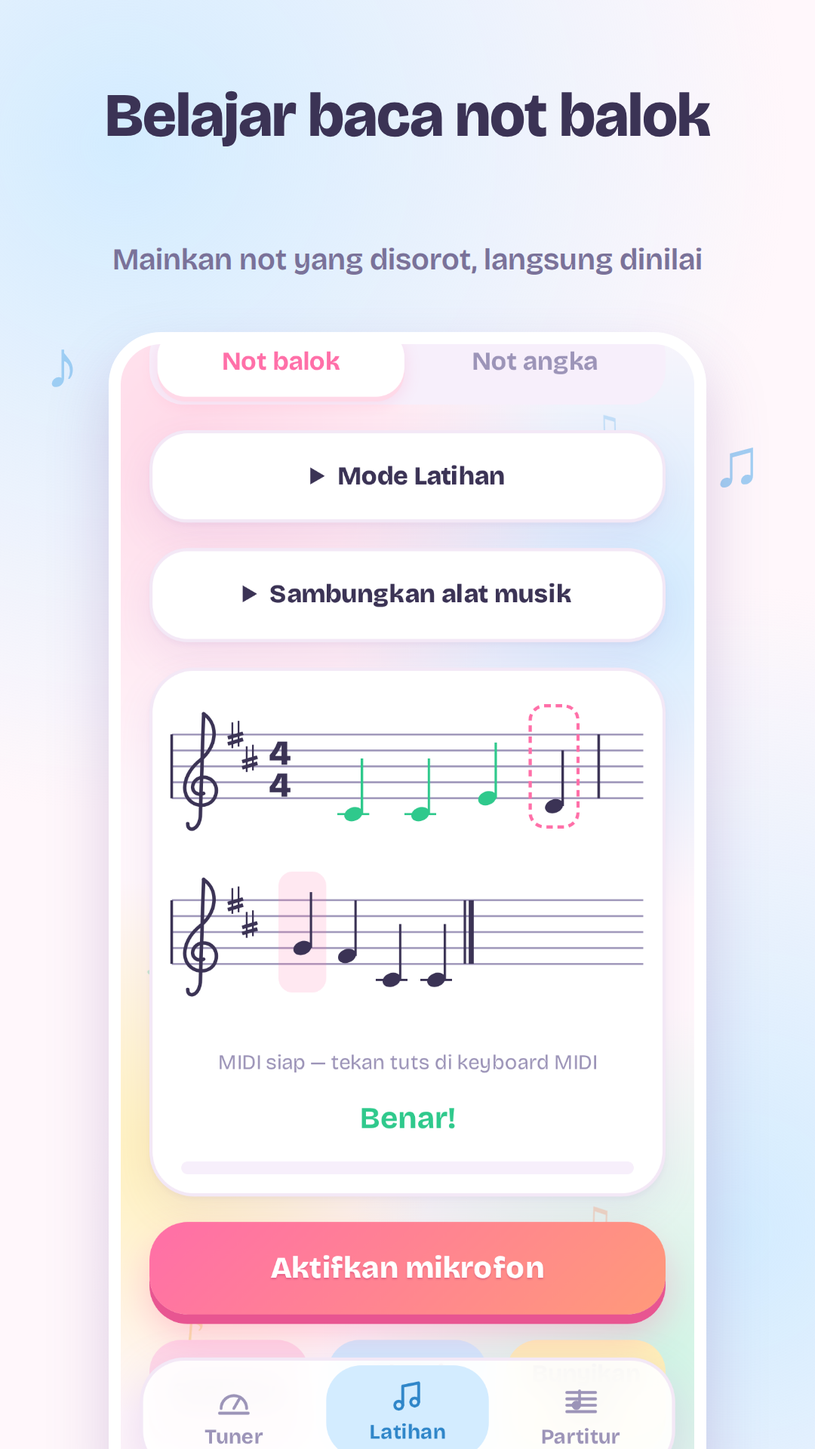
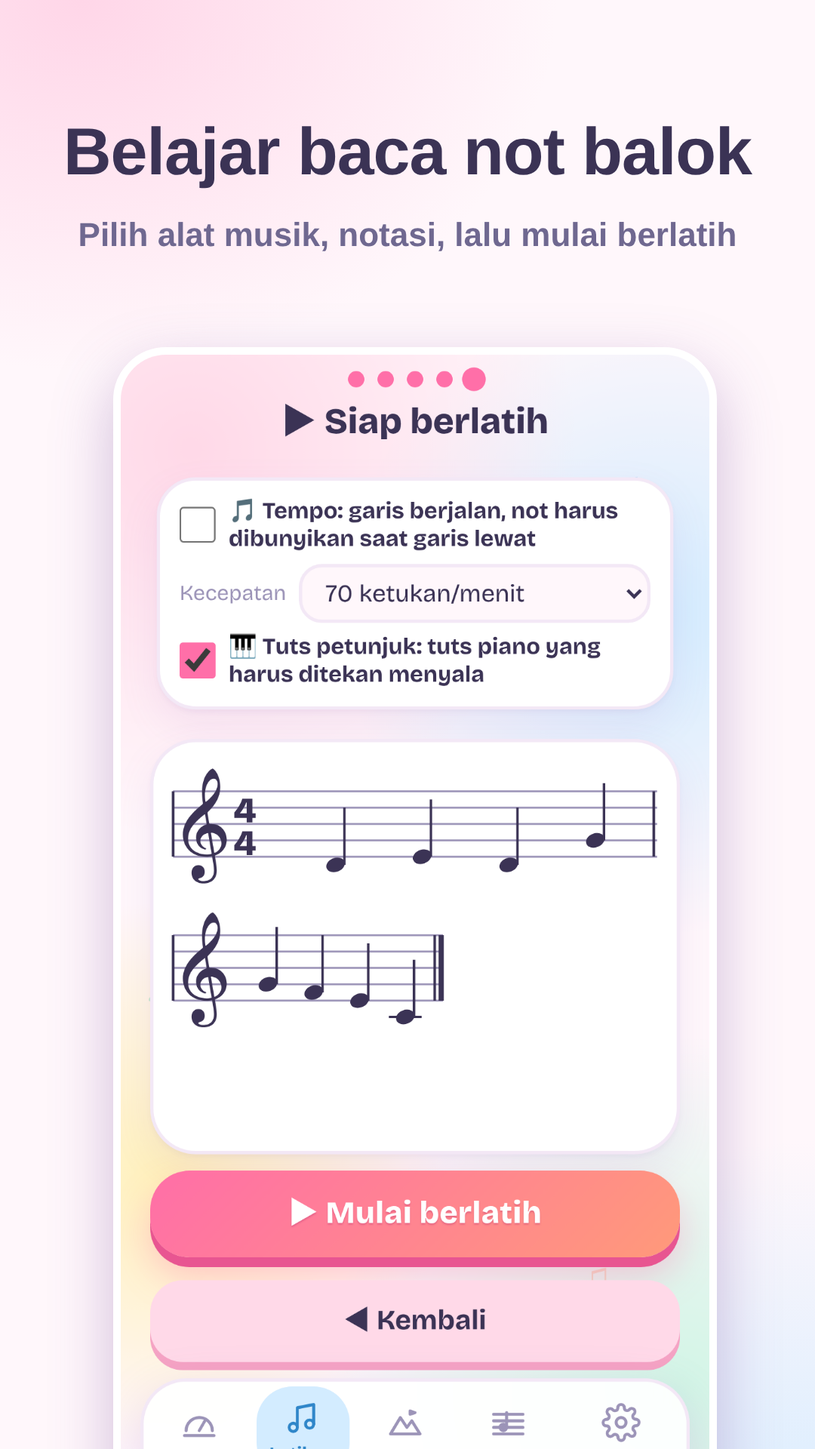
Persiapan Play Store: batas versi gratis, sembunyikan harga, bahan toko baru (#175)
* Tampilan HP: Tuner, Latihan bertahap, Partitur halaman demi halaman (PC tidak berubah)

Claude-Session: https://claude.ai/code/session_01TH6hm59JRc1ZVovFgYkpxG

* HP: tombol Lanjut/Kembali Latihan selalu tampak di atas menu (ukur posisi menu sebenarnya)

Claude-Session: https://claude.ai/code/session_01TH6hm59JRc1ZVovFgYkpxG

* HP: Tuner selalu muat di atas menu, MIDI ON/OFF hanya di mode Rekam; Tuner abaikan nada bayangan (senar A loncat)

Claude-Session: https://claude.ai/code/session_01TH6hm59JRc1ZVovFgYkpxG

* Persiapan Play Store: batas versi gratis (Acak+C, Arcade A, coba 2 birama), sembunyikan harga & tautan Gitar Sakti di aplikasi Play, screenshot & teks toko & privasi baru

Claude-Session: https://claude.ai/code/session_01TH6hm59JRc1ZVovFgYkpxG

---------

diff --git a/index.html b/index.html
@@ -1617,6 +1617,8 @@ body.mob #tab-score.mrec :is(#mscPanel,#mscMore,#stools){display:none !important
 body.mob #tab-score:not(.mrec) #smidiW{display:none !important}
 body.mob #srecCard>#smidiW{display:block;width:100%;margin-top:10px;flex:none}
 body.mob .mNotePanel #sdelnote{flex:1 !important}
+#parcLetter button.lvLock{opacity:.45;filter:grayscale(.6)}
+#parcLetter button.lvLock::after{content:"🔒";position:absolute;right:1px;top:-1px;font-size:10px}
 body.mob #tab-score:not(.mrec) :is(.srecSet:has(#sgrid),#smidiStat){display:none !important}
 body.mob.on-lib #libBack{flex:.8}
 
@@ -2226,8 +2228,8 @@ body.mob #snewOv .instList b{font-size:20px}
   <div class="card" id="planCard">
     <h2 class="sh" id="planTitle">Langganan <span class="planChip" id="planChip">Gratis</span></h2>
     <div class="plancols">
-      <div class="plancol"><b>Gratis</b><ul><li>Tuner</li><li>Metronome</li><li>Latihan mode Acak</li><li>Lagu contoh di Partitur (lihat &amp; putar)</li><li>Coba menulis 4 birama</li></ul></div>
-      <div class="plancol"><b>Premium ⭐</b><ul><li>Semua fitur Gratis</li><li>Arcade, Custom &amp; Partitur saya</li><li>Tulis, edit &amp; simpan partitur</li><li>Impor/ekspor MIDI, akor, gambar</li><li>Simpan di cloud</li></ul></div>
+      <div class="plancol"><b>Gratis</b><ul><li>Tuner</li><li>Metronome</li><li>Latihan Acak (tangga nada C)</li><li>Arcade stage A</li><li>Lagu contoh di Partitur (lihat &amp; putar)</li><li>Coba menulis 2 birama</li></ul></div>
+      <div class="plancol"><b>Premium ⭐</b><ul><li>Semua fitur Gratis</li><li>Arcade huruf B–Z</li><li>Semua tangga nada, Custom &amp; Partitur saya</li><li>Tulis, edit &amp; simpan partitur</li><li>Impor/ekspor MIDI, akor, gambar</li><li>Simpan di cloud</li></ul></div>
     </div>
     <p class="price"><b>Rp45.000 / bulan</b> atau <b>Rp350.000 / tahun</b><br><small>Gratis 1 bulan pertama, bisa dibatalkan kapan saja. Harga final tampil di Google Play saat berlangganan.</small></p>
     <button class="start" id="planBuy" type="button" disabled>Segera tersedia di Google Play</button>
@@ -2288,9 +2290,9 @@ body.mob #snewOv .instList b{font-size:20px}
       <div class="tip">Saat menyetem senar A (atau E rendah), senar E tinggi bisa ikut berdengung. Kalau jarum terasa tidak tenang, tempelkan jari pelan di senar lain supaya diam.</div>
       <p><b>Metronome:</b> tekan tombol <b>Metronome</b> di bagian atas menu Tuner. Atur tempo dengan geseran, tombol −/+, atau <b>Ketuk tempo</b> (ketuk beberapa kali mengikuti irama). Pilih birama (2/4, 3/4, 4/4, 6/8), lalu tekan <b>Mulai</b>. Ketukan pertama bunyinya lebih tinggi.</p>
     </div></details>
-    <details class="helpitem"><summary>Gratis dan Premium</summary><div class="hb">
-      <p><b>Gratis:</b> Tuner, Metronome, Latihan mode Acak, lagu contoh di Partitur (bisa dilihat dan diputar), dan mode <b>Coba menulis</b> (maksimal 4 birama 4/4, tidak bisa disimpan).</p>
-      <p><b>Premium:</b> semua fitur lain, yaitu Arcade, Latihan Custom dan Partitur saya, menulis dan menyimpan partitur, impor/ekspor MIDI, akor, impor gambar, dan simpan di cloud.</p>
+    <details class="helpitem" id="helpPrem"><summary>Gratis dan Premium</summary><div class="hb">
+      <p><b>Gratis:</b> Tuner, Metronome, Latihan mode Acak dengan tangga nada C, Arcade stage A (A1–A9), lagu contoh di Partitur (bisa dilihat dan diputar), dan mode <b>Coba menulis</b> (maksimal 2 birama 4/4, tidak bisa disimpan).</p>
+      <p><b>Premium:</b> semua fitur lain, yaitu Arcade huruf B–Z, semua tangga nada, Latihan Custom dan Partitur saya, menulis dan menyimpan partitur, impor/ekspor MIDI, akor, impor gambar, dan simpan di cloud.</p>
       <p>Lihat harga dan cara berlangganan di bagian <b>Langganan</b> (paling atas halaman Pengaturan ini).</p>
     </div></details>
     <details class="helpitem"><summary>Latihan baca not</summary><div class="hb">
@@ -4528,6 +4530,12 @@ function holdRelease(n){
   renderPractice();
 }
 function advanceArcadeLevel(){
+  /* versi gratis: selesai A9 = tetap di A9, tawarkan Premium (permainan dijeda) */
+  if(pr.arcSub>=9 && !freeLetterOk(pr.arcLetter+1)){
+    pr.arcSub=9; arcSave();
+    setTimeout(function(){ if(pr.playing && !pr.paused) askQuit(); showPaywall('arcadeDone'); },2600);
+    return;
+  }
   pr.arcSub++;
   if(pr.arcSub>9){ pr.arcSub=1; pr.arcLetter=Math.min(pr.arcLetter+1,ARC_LETTERS.length-1); }
   arcSave();
@@ -5224,6 +5232,7 @@ function buildKeySelect(){
     var nm=KEY_NAMES[String(k)], lab;
     if(app.mode==='num') lab='Tangga nada '+nm+' (1 = '+nm+')';
     else lab = k===0 ? 'Tanpa ♯/♭ (C)' : (new Array(Math.abs(k)+1).join(k>0?'♯':'♭'))+'  ('+nm+')';
+    if(!freeKeyOk(k)) lab+=' ⭐';
     h+='<option value="'+k+'">'+lab+'</option>';
   });
   if(sel.innerHTML!==h) sel.innerHTML=h;
@@ -5277,12 +5286,14 @@ function bindPracticeOpts(){
     pr.src=v; syncPracticeOpts(); newRound();
   });
   $('#pkey').addEventListener('change',function(e){
-    pr.key=clamp(parseInt(e.target.value,10)||0,-7,7); store.set('yg.key',String(pr.key));
+    var kv=clamp(parseInt(e.target.value,10)||0,-7,7);
+    if(pr.src!=='score' && !freeKeyOk(kv)){ e.target.value=String(pr.key); showPaywall('tangga'); return; }
+    pr.key=kv; store.set('yg.key',String(pr.key));
     if(pr.src==='score') return;
     if(pr.src==='custom' && pr.score){ pr.score.key=pr.key; pr.score.notes.forEach(function(n){ if(n.m!==null) n.a=spellIn(n.m,pr.key); }); newRound(true); }
     else newRound();
   });
-  $('#parcLetter').addEventListener('click',function(e){ var b=e.target.closest('button[data-l]'); if(!b) return; pr.arcLetter=parseInt(b.getAttribute('data-l'),10); arcSave(); syncPracticeOpts(); renderArcade(); });
+  $('#parcLetter').addEventListener('click',function(e){ var b=e.target.closest('button[data-l]'); if(!b) return; if(!freeLetterOk(parseInt(b.getAttribute('data-l'),10))){ showPaywall('arcade'); return; } pr.arcLetter=parseInt(b.getAttribute('data-l'),10); arcSave(); syncPracticeOpts(); renderArcade(); });
   $('#parcSub').addEventListener('click',function(e){ var b=e.target.closest('button[data-s]'); if(!b) return; pr.arcSub=parseInt(b.getAttribute('data-s'),10); arcSave(); syncPracticeOpts(); renderArcade(); });
   $('#custMeasures').addEventListener('change',function(e){ pr.custMeasures=parseInt(e.target.value,10); store.set('yg.custMeasures',String(pr.custMeasures)); newRound(); });
   $('#custAll').addEventListener('click',function(){ pr.custNotes=[]; for(var m=CUST_LO;m<=CUST_HI;m++) pr.custNotes.push(m); store.set('yg.custNotes',JSON.stringify(pr.custNotes)); syncPracticeOpts(); newRound(); });
@@ -5525,7 +5536,7 @@ function initCloud(){
   if(has) watchAuth().catch(function(){});
   window.addEventListener('online',function(){ syncNow(); });
   document.addEventListener('visibilitychange',function(){ if(!document.hidden&&Date.now()-lastSyncAt>30000) syncNow(); });
-  if(/(^|\.)gitarsakti\.com$/.test(location.hostname)) Array.prototype.forEach.call(document.querySelectorAll('.gsback'),function(a){ a.hidden=false; });
+  if(/(^|\.)gitarsakti\.com$/.test(location.hostname) && appSource()!=='playstore') Array.prototype.forEach.call(document.querySelectorAll('.gsback'),function(a){ a.hidden=false; });
 }
 function dirtyList(synced){
   var out=[];
@@ -5689,6 +5700,11 @@ function bindAcct(){
    - isPremium() nanti diganti pemeriksaan langganan Google Play (Digital Goods API + verifikasi server).
    ===================================================================== */
 var GATING_ON=false;
+/* Batas versi gratis (diputuskan Ferdi, Nov 2026): Tuner & Metronome gratis; Latihan hanya mode Acak dengan tangga nada C;
+   Arcade hanya huruf/stage A (A1-A9); Partitur: lagu contoh dilihat & diputar + "Coba menulis" maks TRIAL_BARS birama. */
+var TRIAL_BARS=2;
+function freeKeyOk(k){ return isPremium() || (k|0)===0; }
+function freeLetterOk(L){ return isPremium() || (L|0)===0; }
 function gatingOn(){ return GATING_ON || store.get('yg.gating','0')==='1'; }
 function isPremium(){ return !gatingOn() || store.get('yg.premTest','0')==='1'; }
 var trialScore=null, lastRealId=null;
@@ -5697,15 +5713,17 @@ function canEditNow(){ return isPremium() || curIsTrial(); }
 function advOn(){ return autoAdv || curIsTrial(); }   /* mode coba selalu maju otomatis (satu not per ketukan, bukan akor) */
 function guardEdit(){
   if(canEditNow()) return true;
-  showScoreAlert('Versi gratis: lagu contoh hanya bisa dilihat dan diputar. Tekan "Coba menulis" untuk mencoba (maks 4 birama), atau berlangganan Premium untuk mengedit.');
+  showScoreAlert('Versi gratis: lagu contoh hanya bisa dilihat dan diputar. Tekan "Coba menulis" untuk mencoba (maks 2 birama), atau berlangganan Premium untuk mengedit.');
   return false;
 }
 var PW={
-  arcade:['Arcade khusus Premium','Main game baca not dengan karakter dan level A sampai Z. Berlangganan Premium untuk membukanya.'],
+  arcade:['Huruf B sampai Z khusus Premium','Stage A (A1–A9) gratis untuk dicoba. Berlangganan Premium untuk membuka 225 level berikutnya, huruf B sampai Z.'],
+  arcadeDone:['Stage A selesai! 🎉','Hebat! Lanjutkan ke huruf B sampai Z (225 level lagi) dengan berlangganan Premium. Kamu tetap bisa mengulang stage A.'],
+  tangga:['Tangga nada lain khusus Premium','Versi gratis berlatih dengan tangga nada C (1 = C). Berlangganan Premium untuk semua tangga nada ♯ dan ♭.'],
   custom:['Latihan Custom khusus Premium','Pilih sendiri nada yang keluar di latihan. Berlangganan Premium untuk membukanya.'],
   score:['Partitur saya khusus Premium','Berlatih dari lagu yang kamu tulis sendiri. Berlangganan Premium untuk membukanya.'],
   simpan:['Menyimpan khusus Premium','Di mode coba, tulisanmu tidak disimpan. Berlangganan Premium untuk menyimpan dan menulis tanpa batas.'],
-  trial4:['Batas mode coba: 4 birama','Berlangganan Premium untuk menulis tanpa batas, menyimpan, dan mengekspor.'],
+  trial4:['Batas mode coba: 2 birama','Berlangganan Premium untuk menulis tanpa batas, menyimpan, dan mengekspor.'],
   impor:['Impor MIDI khusus Premium','Ubah file MIDI jadi partitur. Berlangganan Premium untuk membukanya.'],
   audio:['Impor lagu khusus Premium','Ubah rekaman lagu jadi MIDI dan partitur. Berlangganan Premium untuk membukanya.'],
   word:['Ekspor PDF khusus Premium','Simpan partiturmu sebagai PDF siap cetak (A4/F4). Berlangganan Premium untuk membukanya.'],
@@ -6034,9 +6052,9 @@ function showScoreAlert(msg,ok){
    not-not sesudahnya bergeser dan garis birama dirapikan (reflowBars). */
 var lastIns=null;
 function trialFull(s,item,bb){
-  if(!s.trial) return false;   /* mode coba: maksimal 4 birama */
+  if(!s.trial) return false;   /* mode coba: maksimal TRIAL_BARS birama */
   var tot=0; s.notes.forEach(function(n){ tot+=n.d; });
-  if(tot+item.d>4*bb+1e-6){ showPaywall('trial4'); return true; }
+  if(tot+item.d>TRIAL_BARS*bb+1e-6){ showPaywall('trial4'); return true; }
   return false;
 }
 function fillOrInsert(item,before){
@@ -6279,7 +6297,7 @@ function clipPaste(){
   if(!clip || !clip.length){ showScoreAlert('Belum ada not yang disalin. Pilih not lalu tekan Salin (Ctrl+C).'); return; }
   var s=edScore(), N=s.notes, bb=s.ts[0]*4/s.ts[1], items=cloneNotes(clip), L=0, k, tot=0;
   items.forEach(function(n){ L+=n.d; });
-  if(s.trial){ N.forEach(function(n){ tot+=n.d; }); if(tot+L>4*bb+1e-6){ showPaywall('trial4'); return; } }
+  if(s.trial){ N.forEach(function(n){ tot+=n.d; }); if(tot+L>TRIAL_BARS*bb+1e-6){ showPaywall('trial4'); return; } }
   var r=rangeOf(), ins=advOn(), i0;
   /* NYALA + pilihan: disisipkan di BELAKANG (kanan) pilihan; MATI: menimpa mulai pilihan */
   if(r){ i0 = ins ? r[1]+1 : r[0]; if(ins) while(i0<N.length && tieFrom(N,i0)) i0++; }
@@ -8153,7 +8171,7 @@ window.addEventListener('popstate',function(e){
 /* ===== Menu Arcade: pilih karakter -> alat musik -> jenis not -> PLAY ===== */
 var arc={step:1,sub:null};
 function renderArcade(){
-  var lock=!isPremium(); $('#arcLock').hidden=!lock; $('#arcDots').hidden=lock;
+  var lock=false; $('#arcLock').hidden=true; $('#arcDots').hidden=false;   /* versi gratis: Arcade terbuka, hanya huruf A (freeLetterOk) */
   [1,2,3,4,5].forEach(function(n){ $('#arcS'+n).hidden = lock || !!arc.sub || arc.step!==n; });
   $('#pNewPl').hidden = lock || arc.sub!=='new';
   $('#agRenPg').hidden = lock || arc.sub!=='ren';
@@ -8176,7 +8194,7 @@ function renderLvPick(){
   function hue(l){ return (l*47+130)%360; }
   lw.innerHTML=ARC_LETTERS.map(function(ch,l){
     var n=0; for(var k=l*9;k<l*9+9;k++) if(res[k]!=null) n++;
-    return '<button type="button" role="radio" data-l="'+l+'" style="--h:'+hue(l)+'" aria-checked="'+(l===L)+'" aria-label="Level '+ch+(n?', '+n+' dari 9 stage dimainkan':'')+'">'+ch+
+    return '<button type="button" role="radio" data-l="'+l+'" style="--h:'+hue(l)+'" aria-checked="'+(l===L)+'" aria-label="Level '+ch+(n?', '+n+' dari 9 stage dimainkan':'')+(freeLetterOk(l)?'':', Premium')+'"'+(freeLetterOk(l)?'':' class="lvLock"')+'>'+ch+
       (n?'<i><b style="width:'+Math.round(n/9*100)+'%"></b></i>':'')+(bon[l]?'<span class="cr">👑</span>':'')+'</button>';
   }).join('');
   var sb=''; for(var s=1;s<=9;s++){
@@ -8232,8 +8250,9 @@ function arcLeave(){
 }
 function arcGo(n){ arc.step=n; renderArcade(); }
 function startArcade(){
-  if(!isPremium()){ showPaywall('arcade'); return; }
-  var a=activePlayer(); pr.arcLetter=a.letter; pr.arcSub=a.sub; arcSave();
+  var a=activePlayer();
+  if(!freeLetterOk(a.letter)){ showPaywall('arcade'); arcGo(5); return; }
+  pr.arcLetter=a.letter; pr.arcSub=a.sub; arcSave();
   pr.prevSrc = pr.src==='arcade' ? 'random' : pr.src; pr.src='arcade';
   syncPracticeOpts(); newRound(); startPractice(); refreshTop(); arcMaybeIntro();
 }
@@ -8278,6 +8297,12 @@ function applyEntitlements(){
     if(o.value==='score') o.textContent='Partitur saya'+(prem?'':' ⭐');
   });
   if(!prem && (pr.src==='custom'||pr.src==='score')){ pr.src='random'; $('#psrc').value='random'; }
+  if(!prem && pr.key!==0){ pr.key=0; }
+  buildKeySelect();
+  try{ renderLvPick(); }catch(e){}
+  /* Kartu Langganan (harga) & bantuan Gratis/Premium hanya tampil saat pembatasan aktif. Selama pembayaran Google Play
+     belum dipasang (GATING_ON=false) semua fitur terbuka dan TIDAK ada harga yang ditampilkan (kebijakan Play). */
+  $('#planCard').hidden=!gatingOn(); var ph=$('#helpPrem'); if(ph) ph.hidden=!gatingOn();
   /* Partitur */
   var fb=$('#sfree');
   if(prem){ fb.hidden=true; }
@@ -8287,7 +8312,7 @@ function applyEntitlements(){
       +'<div class="row"><button class="sound" type="button" data-act="try">✏ Coba menulis</button><button class="start" type="button" data-act="prem" style="flex:1.2;padding:9px 8px;font-size:14px">⭐ Lihat Premium</button></div>';
   } else {
     fb.hidden=false;
-    fb.innerHTML='<p><b>Mode coba:</b> maksimal <b>4 birama</b>, sukat 4/4, tidak bisa disimpan atau diekspor. Menutup aplikasi menghapusnya.</p>'
+    fb.innerHTML='<p><b>Mode coba:</b> maksimal <b>'+TRIAL_BARS+' birama</b>, sukat 4/4, tidak bisa disimpan atau diekspor. Menutup aplikasi menghapusnya.</p>'
       +'<div class="row"><button class="sound" type="button" data-act="reset">Kosongkan</button><button class="sound" type="button" data-act="back">Kembali ke lagu</button></div>'
       +'<div class="row" style="margin-top:8px"><button class="start" type="button" data-act="prem" style="padding:9px 8px;font-size:14px">⭐ Lihat Premium untuk menyimpan</button></div>';
   }
@@ -8581,7 +8606,11 @@ function mobLatRender(){
   var t4={random:'⚙ Atur soal acak',custom:'🎯 Pilih nada sendiri',score:'📄 Pilih partitur'}[pr.src]||'⚙ Atur latihan';
   $('#mlatT').textContent=['','🎹 Pilih alat musik','🎼 Pilih jenis notasi','🎯 Pilih mode latihan',t4,'▶ Siap berlatih'][mob.lst];
   $('#mlatDots').innerHTML=[1,2,3,4,5].map(function(n){ return '<i class="'+(n<=mob.lst?'on':'')+(n===mob.lst?' cur':'')+'"></i>'; }).join('');
-  $$('#mlatSrc [data-msrc]').forEach(function(b){ b.setAttribute('aria-pressed',b.getAttribute('data-msrc')===pr.src?'true':'false'); });
+  $$('#mlatSrc [data-msrc]').forEach(function(b){
+    var v=b.getAttribute('data-msrc'), t=b.querySelector('b');
+    b.setAttribute('aria-pressed',v===pr.src?'true':'false');
+    if(!t._t) t._t=t.textContent; t.textContent=t._t+(v==='random'||isPremium()?'':' ⭐');
+  });
   var ss=$('#mlatScore'), h=scores.map(function(x){ return '<option value="'+x.id+'"></option>'; }).join('');
   if(ss._h!==h){ ss._h=h; ss.innerHTML=h; scores.forEach(function(x,i){ ss.options[i].textContent=x.title||'Tanpa judul'; }); }
   if(!curIsTrial()) ss.value=curId;

diff --git a/privacy.html b/privacy.html
@@ -34,7 +34,7 @@ a{color:var(--brass)}
   <img src="icon-192.png" alt="">
   <div>
     <h1>Kebijakan Privasi FerTune</h1>
-    <div class="muted">Berlaku sejak 2 Oktober 2026</div>
+    <div class="muted">Berlaku sejak 4 November 2026</div>
   </div>
 </header>
 
@@ -42,14 +42,14 @@ a{color:var(--brass)}
   <p class="sum">Singkatnya: tanpa akun, semua data FerTune hanya ada di perangkatmu. Jika kamu memilih masuk dengan akun Gitar Sakti, email dan partitur milikmu disimpan di server Gitar Sakti agar tidak hilang saat ganti HP. Suara mikrofon tidak pernah direkam atau dikirim.</p>
 
   <h2>Tentang aplikasi ini</h2>
-  <p>FerTune adalah aplikasi untuk belajar musik: tuner gitar, latihan membaca not balok dan not angka, serta membuat partitur. FerTune ditujukan untuk pengguna berusia 13 tahun ke atas. Memakai FerTune tidak mewajibkan akun. Akun bersifat opsional dan sama dengan akun di gitarsakti.com. FerTune tidak menampilkan iklan dan tidak memiliki pembelian di dalam aplikasi.</p>
+  <p>FerTune adalah aplikasi untuk belajar musik: tuner gitar, latihan membaca not balok dan not angka, serta membuat partitur. FerTune ditujukan untuk pengguna berusia 13 tahun ke atas. Memakai FerTune tidak mewajibkan akun. Akun bersifat opsional dan sama dengan akun di gitarsakti.com. FerTune tidak menampilkan iklan. Saat ini belum ada pembelian di dalam aplikasi; bila nanti tersedia langganan Premium, pembayarannya diproses oleh Google Play dan FerTune tidak pernah menerima data kartu atau rekeningmu.</p>
 
   <h2>Mikrofon</h2>
   <p>Mikrofon dipakai hanya saat kamu menekan tombol <b>"Aktifkan mikrofon"</b>, untuk mengenali nada yang kamu mainkan (tuner dan latihan membaca not).</p>
   <ul>
     <li>Suara dianalisis langsung di perangkat, detik itu juga.</li>
     <li>Suara <b>tidak pernah direkam, tidak disimpan, dan tidak dikirim</b> ke mana pun.</li>
-    <li>Mikrofon berhenti saat kamu menekan "Matikan mikrofon" atau pindah ke menu Partitur.</li>
+    <li>Mikrofon berhenti saat kamu menekan "Matikan mikrofon" atau pindah ke menu lain.</li>
   </ul>
 
   <h2>Keyboard / alat musik MIDI</h2>
@@ -64,12 +64,12 @@ a{color:var(--brass)}
   <p>Selama kamu tidak masuk dengan akun, data ini tidak pernah dikirim ke server. Kamu bisa menghapusnya kapan saja dengan menghapus partitur di aplikasi, menghapus data aplikasi di pengaturan HP, atau mencopot pemasangan (uninstall) FerTune.</p>
 
   <h2>Akun dan penyimpanan cloud (opsional)</h2>
-  <p>Jika kamu menekan <b>Masuk</b> atau <b>Daftar</b> di menu Partitur, FerTune memakai akun Gitar Sakti (gitarsakti.com):</p>
+  <p>Jika kamu menekan <b>Masuk</b> atau <b>Daftar</b> di menu Pengaturan, FerTune memakai akun Gitar Sakti (gitarsakti.com):</p>
   <ul>
     <li><b>Yang dikirim dan disimpan:</b> alamat email, kata sandi (disimpan terenkripsi oleh penyedia autentikasi, tidak terbaca oleh kami), nama jika kamu mengisinya, dan partitur yang kamu buat atau impor beserta judul dan pengaturannya.</li>
     <li><b>Tujuan:</b> masuk ke akun dan menyimpan partitur supaya tersedia di semua perangkatmu.</li>
     <li><b>Tempat penyimpanan:</b> server Supabase yang dikelola Gitar Sakti. Hanya akunmu yang dapat membaca dan mengubah partituranmu; data ini tidak dijual dan tidak dibagikan ke pihak lain.</li>
-    <li><b>Menghapus data:</b> menghapus partitur di aplikasi juga menandainya terhapus di cloud. Untuk menghapus akun beserta seluruh partitur di cloud, tekan <b>Hapus akun</b> di kartu akun menu Partitur, atau buka <a href="hapus-akun.html">halaman hapus akun</a> (bisa tanpa memasang aplikasi). Karena akunnya sama dengan akun Gitar Sakti: bila kamu pernah membeli kelas, akun tidak dihapus (riwayat pembelian wajib disimpan) dan hanya data FerTune di cloud yang dihapus. Kamu juga bisa meminta lewat email di bagian Kontak.</li>
+    <li><b>Menghapus data:</b> menghapus partitur di aplikasi juga menandainya terhapus di cloud. Untuk menghapus akun beserta seluruh partitur di cloud, tekan <b>Hapus akun</b> di kartu akun menu Pengaturan, atau buka <a href="hapus-akun.html">halaman hapus akun</a> (bisa tanpa memasang aplikasi). Karena akunnya sama dengan akun Gitar Sakti: bila kamu pernah membeli kelas, akun tidak dihapus (riwayat pembelian wajib disimpan) dan hanya data FerTune di cloud yang dihapus. Kamu juga bisa meminta lewat email di bagian Kontak.</li>
     <li>Kamu bisa keluar kapan saja; partitur di perangkat tetap ada.</li>
     <li><b>Umpan balik saat hapus akun (opsional):</b> kalau kamu mengisi alasan menghapus akun, alasan dan catatanmu disimpan <b>tanpa nama, tanpa email, dan tanpa tautan ke akunmu</b>, hanya untuk memperbaiki FerTune. Boleh dikosongkan.</li>
   </ul>
@@ -86,7 +86,7 @@ a{color:var(--brass)}
     <li>Satu-satunya layanan di luar perangkat adalah server akun Gitar Sakti (Supabase) di atas, dan hanya dipakai jika kamu masuk.</li>
     <li>Tidak ada fitur obrolan, berbagi, atau tautan ke media sosial.</li>
   </ul>
-  <p>Seperti semua aplikasi yang diunduh dari internet, file aplikasi FerTune diambil dari server hosting (GitHub Pages) saat pertama kali dipasang dan saat ada pembaruan. Server hosting dapat mencatat informasi teknis standar (seperti alamat IP) untuk keperluan keamanan dan operasional mereka; FerTune sendiri tidak menerima atau menggunakan informasi tersebut. Jika dibuka lewat gitarsakti.com, hosting dilakukan oleh Vercel dengan catatan teknis serupa.</p>
+  <p>Seperti semua aplikasi yang diunduh dari internet, file aplikasi FerTune diambil dari server hosting (GitHub Pages) saat pertama kali dipasang dan saat ada pembaruan. Server hosting dapat mencatat informasi teknis standar (seperti alamat IP) untuk keperluan keamanan dan operasional mereka; FerTune sendiri tidak menerima atau menggunakan informasi tersebut.</p>
 
   <h2>Anak-anak</h2>
   <p>FerTune tidak ditujukan untuk anak di bawah usia 13 tahun dan kami tidak dengan sengaja mengumpulkan data pribadi dari mereka. FerTune hanya mengumpulkan email dan partitur dari pengguna yang memilih membuat akun. Jika kami mengetahui ada data anak di bawah 13 tahun yang terkumpul, data itu akan dihapus.</p>

diff --git a/sw.js b/sw.js
@@ -1,6 +1,6 @@
 // Yuner service worker — supaya bisa jalan offline.
 // Setiap kali kamu mengubah index.html, naikkan angka versi ini (v1 -> v2, dst).
-const CACHE = 'fertune-v183';
+const CACHE = 'fertune-v184';
 const PRECACHE = [
   './',
   './index.html',

diff --git a/CLAUDE.md b/CLAUDE.md
@@ -73,6 +73,8 @@ Semua logika JS ada langsung di dalam `index.html` (di dalam satu `<script>` IIF
 ## Gratis vs Premium & Metronome (lihat `RENCANA-PREMIUM.md` untuk rencana lengkap)
 - **Metronome**: bagian dari menu Tuner (tombol "Tuner | Metronome" di header, `setTunerMode`). BPM 30-240, birama 2/4 3/4 4/4 6/8, ketuk tempo, jadwal bunyi presisi lewat jam `AudioContext` (`metSched`, lookahead 120 ms). Berhenti saat pindah menu / halaman tersembunyi. Gratis. **Naik otomatis** (latihan kecepatan, diminta Ferdi Okt 2026; kartu `#metAuto`, centang `#maOn`): Tambah `#maStep` +1/2/3/4/5/10 bpm, Setiap `#maEvery` 10/20/30 dtk/1/2 menit (`MA_EVERY`), Sampai `#maTo` 30–240 (langkah 5; target lebih pelan = turun). Disimpan `yg.metAuto` (`maLoad`/`maSave`), objek `met.auto`. `metSched` menaikkan `met.bpm` di ketuk 1 birama pertama setelah `met.autoNext` (jam AudioContext), angka BPM berdenyut (`.bump`); status + bilah kemajuan `#maStat` diperbarui `maRender` (tiap 250 ms saat jalan): "Naik +5 bpm dalam 7 dtk · target 140" / "🎯 Target tercapai!". Berhenti → tempo kembali ke tempo awal (`met.autoFrom`) dan "Terakhir sampai X bpm". Supaya muat 360x640: Mulai + Ketuk tempo sebaris (`.metGoRow`), angka BPM diperkecil saat `.met.autoOn`. Kotak pilihan `.maRow select` membulat (radius 14, garis & bayangan `--pLilac`, latar `--panel`; diminta Ferdi: jangan kotak lancip). Uji `met.js`/`metfit.js`.
 - **Hak akses**: `isPremium()`, `gatingOn()`, `GATING_ON` (sekarang `false` = semua terbuka). `applyEntitlements()` menyesuaikan tampilan; `guardEdit()`/`showPaywall(kunci)` dipakai titik penguncian (Latihan Custom & Partitur saya, Arcade, edit/simpan/impor/ekspor/akor/gambar di Partitur, cloud). Lagu contoh: `s0` (Twinkle), `b-mary` (Mary Had a Little Lamb, ditambahkan sekali lewat `yg.seedMary`) dan `b-kj432` (KJ 432 "Jika Padaku Ditanyakan" 1b, Do = F, vokal, `kj432()`, ditambahkan sekali lewat `yg.seedKj432`; dibaca Claude dari gambar not angka kiriman Ferdi sebagai uji coba sebelum memutuskan fitur baca-gambar otomatis berbayar; birama gantung diawali rehat 2 ketuk) dan `b-canon` (Canon in D, Pachelbel arr. lemontart, piano 2 tangan D mayor, `canonD()`, `yg.seedCanon`; baru birama 1–20 = halaman 1 dari 6 halaman PDF kiriman Ferdi, dibaca Claude; sisa halaman berisi lari 1/16–1/32 — FerTune maks 1/16). `b-cicak` ("Cicak-Cicak di Dinding", A.T. Mahmud, Do = C, 2/4, Andante, vokal + lirik, `cicak()`, `yg.seedCicak`; dibaca Claude dari FOTO not angka kiriman Ferdi; akor iringan C/G/F & staccato belum dimasukkan). **Mode coba** (`trialScore`, id `trial`): hanya di memori, maks 4 birama 4/4, tanpa simpan/ekspor/akor; saat Premium aktif otomatis disimpan (`promoteTrial`).
+- **Batas versi gratis (diputuskan Ferdi, Nov 2026)**: Tuner & Metronome gratis; Latihan hanya **Acak** + tangga nada **C** (`freeKeyOk`, pilihan lain ⭐ → paywall `tangga`; `applyEntitlements` mengembalikan `pr.key` ke 0); Arcade hanya **huruf A** (`freeLetterOk`; huruf B–Z bergembok `.lvLock` di pemilih level → paywall `arcade`; selesai A9 → tetap A9, permainan dijeda + paywall `arcadeDone`; layar kunci `#arcLock` tidak dipakai lagi); Partitur "Coba menulis" maks **`TRIAL_BARS`=2** birama (dulu 4). Kartu **Langganan** (harga) & bantuan "Gratis dan Premium" (`#helpPrem`) DISEMBUNYIKAN selama `gatingOn()` false — kebijakan Play: jangan tampilkan harga/langganan sebelum Play Billing ada. Tombol `.gsback` "← Gitar Sakti" tidak tampil bila `appSource()==='playstore'` (kebijakan pembayaran Play: jangan arahkan ke pembelian kelas di luar Google Play).
+- **Bahan Play Store diperbarui Nov 2026**: screenshot `playstore/raw` (360×720 @3x) & `playstore/screenshot` (berbingkai 1080×1920) dibuat ulang dari tampilan HP baru: 1-tuner, 2-latihan-balok, 3-latihan-angka, 4-partitur, 5-metronome, 6-partitur-saya (lagu contoh di screenshot hanya Twinkle/Mary — bebas hak cipta). Teks toko & kebijakan privasi diperbarui (akun di menu Pengaturan, belum ada pembelian; bila ada nanti lewat Google Play). Panduan PWABuilder: orientasi **Default/Any** (bukan Portrait). Belum diputuskan Ferdi: lagu contoh berhak cipta (Cicak-Cicak A.T. Mahmud, KJ 432, aransemen Canon lemontart) untuk versi Play Store.
 - Uji di HP: `?gating=1` (simulasi gratis) + Pengaturan > Langganan > ketuk judul 7x > "Mode uji". SEBELUM RILIS BERBAYAR: set `GATING_ON=true`, ganti `isPremium()` dengan verifikasi Play Billing, hapus "Mode uji".
 - Tuner harus tetap muat satu layar di 360x640: tombol Tuner|Metronome ada DI DALAM header (tidak menambah tinggi).
 

diff --git a/playstore/deskripsi-toko.md b/playstore/deskripsi-toko.md
@@ -12,36 +12,41 @@ FerTune: Tuner & Belajar Not
 ## Deskripsi singkat (maks. 80 karakter)
 
 ```
-Belajar musik jadi seru! Tuner gitar, latihan baca not, partitur & MIDI.
+Tuner gitar, metronom, latihan baca not, game Arcade, partitur & MIDI.
 ```
-(72 karakter)
+(70 karakter)
 
 ## Deskripsi lengkap (maks. 4000 karakter)
 
 ```
 FerTune membuat belajar musik jadi seru untuk pemula dan siapa saja yang ingin lancar membaca not! 🎵
 
-Setem gitar, latihan membaca not balok dan not angka, tulis lagu sendiri, lalu mainkan dengan gitar, piano, atau keyboard MIDI. FerTune mendengarkan permainanmu dan langsung memberi tahu apakah nadanya sudah benar.
+Setem gitar, berlatih dengan metronom, latihan membaca not balok dan not angka, tulis lagu sendiri, lalu mainkan dengan gitar, piano, atau keyboard MIDI. FerTune mendengarkan permainanmu dan langsung memberi tahu apakah nadanya sudah benar.
 
-🎸 TUNER GITAR
+🎸 TUNER GITAR & METRONOM
 • Jarum dan warna menunjukkan apakah senar terlalu rendah, terlalu tinggi, atau sudah pas
 • 7 pilihan tuning: Standar, Drop D, turun ½ nada, turun 1 nada, DADGAD, Open G, Open D
-• Bunyikan nada acuan untuk setiap senar
-• Atur nada acuan A4 dari 430 sampai 450 Hz
+• Bunyikan nada acuan untuk setiap senar, atur nada acuan A4 dari 430 sampai 450 Hz
+• Metronom 30–240 bpm, birama 2/4 3/4 4/4 6/8, ketuk tempo, dan mode naik otomatis untuk latihan kecepatan
 
 🎼 LATIHAN BACA NOT
 • Not balok (kunci G dan kunci F) atau not angka
-• Pilih tangga nada: C, G, D, A, E… atau F, B♭, E♭… (♯ ♯♯ ♯♯♯ / ♭ ♭♭ ♭♭♭, atau 1 = G, 1 = A, dst.)
-• Mode Arcade: 234 level dari A sampai Z, makin lama makin menantang
+• Pilih tangga nada: C, G, D, A, E… atau F, B♭, E♭…
+• Mode Tempo: garis berjalan, mainkan not tepat saat garis lewat
+• Tuts petunjuk: tuts piano yang harus ditekan menyala
 • Mode Custom: pilih sendiri nada yang ingin dilatih
 • Untuk piano maupun gitar
-• Jawaban benar disambut hujan confetti! 🎉
+
+🎮 ARCADE
+• 234 level dari A sampai Z, materi baru diperkenalkan dengan animasi
+• Pilih karakter, daki gunung level demi level, kumpulkan skor dan bonus PERFECT
 
 ✏ PARTITUR
-• Tulis lagu sendiri dengan tuts piano warna-warni
-• Putar lagumu untuk mendengarnya
-• Latih lagu yang kamu tulis
-• Impor dan ekspor file MIDI (.mid)
+• Tulis lagu sendiri dengan tuts piano warna-warni: vokal (dengan lirik), gitar, atau piano 2 tangan
+• Akor, dinamika, garis birama, nama bagian lagu (Intro, Reff…)
+• Rekam langsung dari keyboard MIDI, jadi partitur otomatis
+• Putar lagumu, lalu latih lagu yang kamu tulis
+• Impor MIDI, MusicXML, atau rekaman lagu; ekspor PDF, JPG, PNG, dan MIDI
 
 🎹 SAMBUNGKAN ALAT MUSIK
 • Colok keyboard MIDI lewat kabel USB/OTG: tanpa delay, bisa membaca sampai 10 nada sekaligus, dan menampilkan nama akor
@@ -49,8 +54,8 @@ Setem gitar, latihan membaca not balok dan not angka, tulis lagu sendiri, lalu m
 
 🔒 PRIVASI TERJAGA
 • Tanpa iklan
-• Bisa dipakai tanpa akun; akun Gitar Sakti opsional untuk menyimpan partitur di cloud. Tanpa pembelian dalam aplikasi
-• Tidak mengumpulkan data pribadi. Suara dari mikrofon hanya dianalisis di perangkat, tidak pernah direkam atau dikirim
+• Bisa dipakai tanpa akun; akun Gitar Sakti opsional untuk menyimpan partitur di cloud (hanya email dan partitur yang disimpan)
+• Suara dari mikrofon hanya dianalisis di perangkat, tidak pernah direkam atau dikirim
 • Bisa dipakai tanpa internet
 
 Selamat bermain musik! 🎶
@@ -74,5 +79,5 @@ Selamat bermain musik! 🎶
 |---|---|---|
 | Ikon aplikasi | `ikon-playstore-512.png` | 512 × 512 |
 | Gambar fitur (banner) | `feature-graphic-1024x500.png` | 1024 × 500 |
-| Screenshot HP (6 buah) | `screenshot/1-tuner.png` … `6-midi.png` | 1080 × 1920 |
+| Screenshot HP (6 buah) | `screenshot/1-tuner.png` … `6-partitur-saya.png` (dibuat ulang Nov 2026 dari tampilan HP baru) | 1080 × 1920 |
 | Screenshot polos (cadangan) | `raw/*.png` | 1080 × 2160 |

diff --git a/playstore/PANDUAN-PLAYSTORE.md b/playstore/PANDUAN-PLAYSTORE.md
@@ -55,7 +55,7 @@ Alamat lama `gitarsakti.com/fertune/` dialihkan ke sini.
    | Theme color / Background color | `#FFF7FB` |
    | Status bar / Nav bar color | `#FFF7FB` |
    | Display mode | Standalone |
-   | Orientation | Portrait |
+   | Orientation | **Default / Any** ⚠ JANGAN "Portrait": layar berlatih & Arcade harus bisa mendatar |
    | Signing key | **Create new** (isi nama & organisasi) |
 
 4. Tekan **Download**. Kamu mendapat file ZIP berisi:
@@ -70,6 +70,8 @@ Alamat lama `gitarsakti.com/fertune/` dialihkan ke sini.
 
 1. **https://play.google.com/console** → **Buat aplikasi**.
 2. Nama: `FerTune: Tuner & Belajar Not`, bahasa default: **Indonesia**, jenis: **Aplikasi**, **Gratis**.
+   (Gratis + langganan Premium di dalam aplikasi nanti. Aplikasi gratis BOLEH menambah pembelian dalam aplikasi kapan saja;
+   yang tidak bisa hanyalah mengubah aplikasi gratis menjadi aplikasi berbayar di muka.)
 3. Buka **Rilis → Pengujian → Pengujian tertutup** (atau **Pengujian internal** untuk mencoba sendiri dulu),
    buat rilis, upload file `.aab` dari langkah 3.
 4. Saat ditanya **Penandatanganan aplikasi oleh Play**, pilih **gunakan** (disarankan).
@@ -115,7 +117,7 @@ Tanpa langkah ini aplikasi tetap jalan, tapi di bagian atas akan terlihat **bari
 | Audio mikrofon | Diproses di perangkat, tidak dikumpulkan/dikirim → tidak dicantumkan sebagai data terkumpul |
 
 > ✅ **Hapus akun sudah ada.** Google Play meminta jalur hapus akun di dalam aplikasi *dan* tautan web. Keduanya tersedia:
-> tombol **Hapus akun** di kartu akun menu Partitur, dan halaman web `https://fertune.gitarsakti.com/hapus-akun.html`.
+> tombol **Hapus akun** di kartu akun menu Pengaturan, dan halaman web `https://fertune.gitarsakti.com/hapus-akun.html`.
 > Isi tautan web itu di Play Console → Konten aplikasi → Keamanan data → *Hapus akun*.
 > Aturannya: akun yang punya pesanan tidak dihapus (riwayat pembelian wajib disimpan), hanya data FerTune di cloud;
 > akun tanpa pesanan dihapus seluruhnya. Sebutkan ini di formulir Play Console bila ditanya data yang dipertahankan.
@@ -132,6 +134,23 @@ Setelah uji tertutup selesai: **Rilis → Produksi → Buat rilis baru** → pak
 → **Kirim untuk ditinjau**. Peninjauan bisa memakan beberapa hari.
 
 ---
+
+## Versi gratis & Premium (diputuskan Ferdi, Nov 2026)
+
+| Gratis | Premium |
+|---|---|
+| Tuner & Metronome | — |
+| Latihan mode **Acak**, tangga nada **C** saja | Semua tangga nada, Custom, Partitur saya |
+| Arcade **stage A** (A1–A9) | Huruf B–Z (225 level) |
+| Partitur: lagu contoh dilihat & diputar, **Coba menulis 2 birama** | Menulis tanpa batas, simpan, cloud, impor/ekspor, rekam, akor |
+
+- Aturannya sudah ada di kode (`TRIAL_BARS`, `freeKeyOk`, `freeLetterOk` di `index.html`), tapi **belum aktif**
+  (`GATING_ON=false`): selama pembayaran Google Play belum dipasang, semua fitur terbuka dan kartu harga
+  disembunyikan. Uji tampilan versi gratis: buka `?gating=1`.
+- **Sebelum menyalakan:** (1) buat produk langganan di Play Console → Monetisasi → Langganan,
+  (2) pasang Play Billing lewat Digital Goods API di TWA (PWABuilder: centang *Play Billing*),
+  (3) verifikasi pembelian di server (Edge Function Supabase), (4) ganti `isPremium()`, set `GATING_ON=true`,
+  hapus "Mode uji". Ini pekerjaan tersendiri setelah aplikasi ada di Play Console.
 
 ## Memperbarui aplikasi setelah terbit
 
